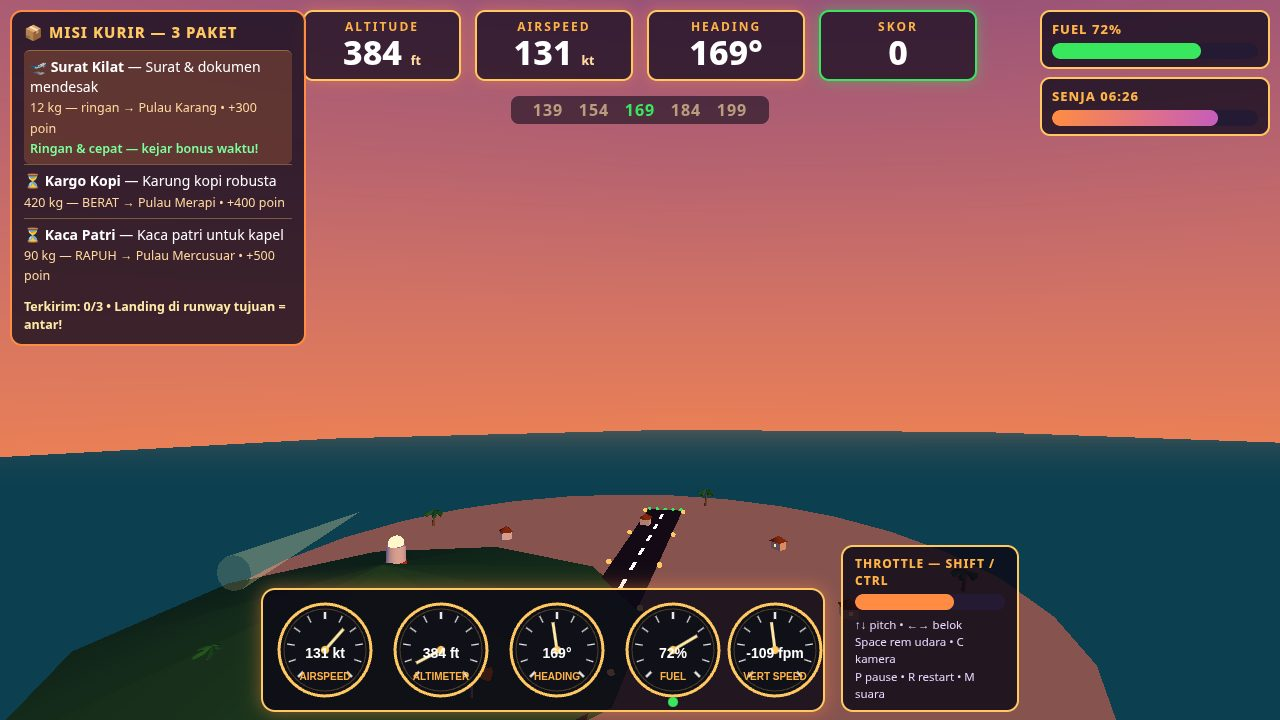
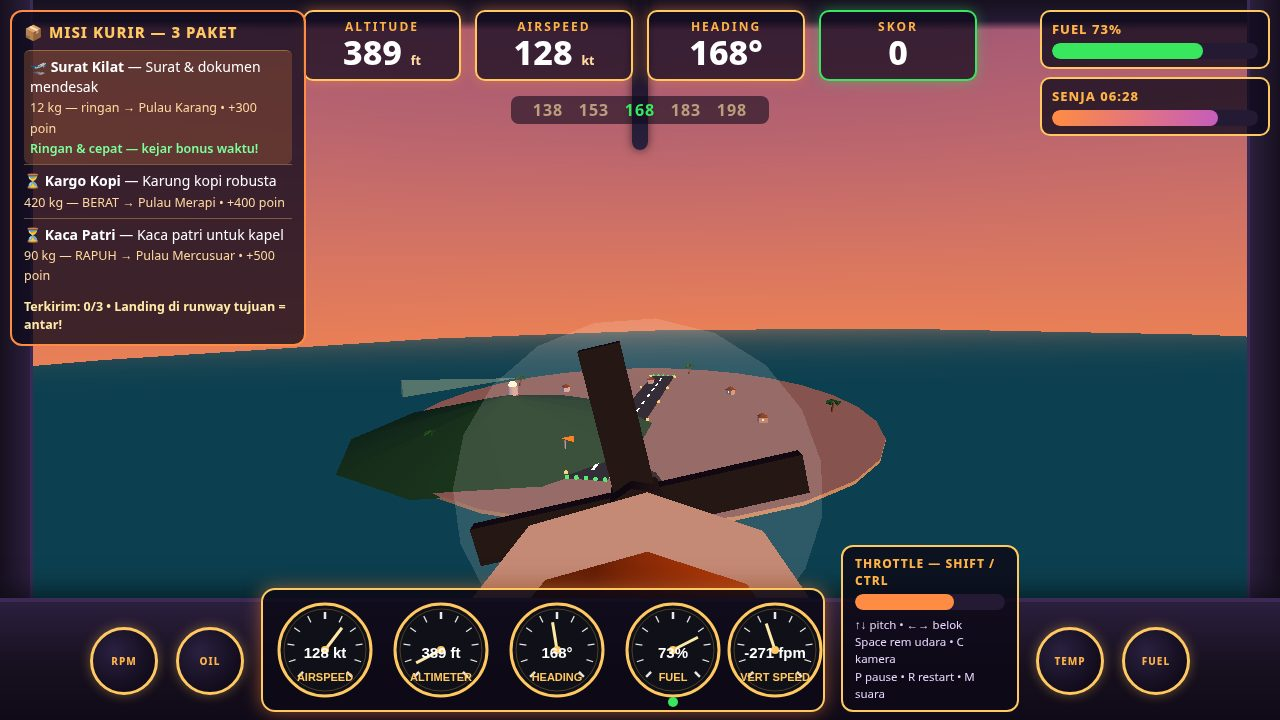
Revisi v3-rev1 Akun 1: mode kokpit benar-benar kokpit
- camera.js: kamera kokpit pindah dari depan hidung (z -5,2, v3) ke
  kursi pilot (z -1,0, +3,0 m, menunduk 8,7 derajat, FOV 74) —
  hidung + baling-baling terlihat tanpa menutupi pulau tujuan
- aircraft.js: baling-baling selalu terlihat (dulu disembunyikan di
  kokpit); kanopi kaca disembunyikan hanya di mode kokpit supaya
  tidak menutupi hidung (mode chase/screenshot 1/3/4 tak berubah)
- index.html: bingkai panel kokpit DOM (dashboard RPM/OIL/TEMP/FUEL
  + pilar kanopi) hanya di mode kokpit
- main.js: sinkronisasi bingkai kokpit; hud.js: label dial dibesarkan
- Screenshot 2 diambil ulang + diverifikasi visual (1280x720)

diff --git a/game/src/camera.js b/game/src/camera.js
@@ -1,9 +1,21 @@
 // Kamera Senja Terbang: chase view (utama) & cockpit view (tombol C).
 // Chase: di belakang-bawah pesawat, pesawat besar di tengah-bawah frame, runway
-// di depan terlihat. Cockpit: dari dalam kokpit, hidung + sayap + baling-baling.
+// di depan terlihat.
+// Cockpit (REVISI v3-rev1): kamera di kursi pilot — mundur 1,0 m di depan
+// titik tengah pesawat (z lokal -1,0), 2,6 m di atas sumbu badan, pandangan
+// menunduk ~8,7° melewati hidung. Yang terlihat: baji hidung cream di
+// tengah-bawah frame, baling-baling + cakram blur di depan hidung, dan
+// Pulau Mercusuar + mercusuar + runway di depan TIDAK tertutup hidung.
+// Baling-baling TIDAK lagi disembunyikan di mode kokpit (itulah penanda
+// "dari dalam" yang paling jelas). FOV kokpit dilebarkan ke 74 supaya
+// hidung + baling-baling + horizon masuk satu frame.
+// Bingkai panel kokpit (dashboard + pilar kanopi) digambar sebagai overlay DOM
+// #cockpit-frame di index.html, ditampilkan hanya di mode kokpit.
 // Transisi dihaluskan (lerp) supaya kamera tidak melawan pilot.
 const SenjaCamera = (function () {
   const DEG = Math.PI / 180;
+  const CHASE_FOV = 62;
+  const COCKPIT_FOV = 74;
 
   function createCameraState() {
     return {
@@ -11,26 +23,53 @@ const SenjaCamera = (function () {
       orbitX: 0, orbitY: 0, // drag orbit di menu
       smoothPos: new THREE.Vector3(0, 10, 90),
       smoothLook: new THREE.Vector3(0, 5, 0),
+      fovApplied: CHASE_FOV,
     };
   }
 
+  // Terapkan FOV mode aktif (kokpit lebih lebar) — hanya saat berubah.
+  function applyFov(camera, camState) {
+    const want = camState.mode === 'cockpit' ? COCKPIT_FOV : CHASE_FOV;
+    if (camState.fovApplied !== want) {
+      camState.fovApplied = want;
+      camera.fov = want;
+      camera.updateProjectionMatrix();
+    }
+  }
+
   function updateCamera(camera, camState, plane, dt, time) {
+    applyFov(camera, camState);
     const hRad = plane.heading * DEG;
     const backX = -Math.sin(hRad);
     const backZ = Math.cos(hRad);
     let targetPos;
     let targetLook;
     if (camState.mode === 'cockpit') {
-      // Mata pilot: di depan kanopi, di atas hidung — hidung + sayap + baling-baling terlihat,
-      // terrain di depan bebas.
+      // Mata pilot — REVISI v3-rev1 (iterasi 3, setelah uji visual):
+      // Iterasi 1 (kamera di atas kanopi, z -2,0, +1,15 m): hidung MEMENUHI
+      // frame, pulau di depan tertutup. Iterasi 2 (z -1,0, +2,6 m): pulau +
+      // mercusuar + baling-baling terlihat bagus, TAPI hidung cream
+      // tersembunyi di balik punuk kanopi kaca (garis pandang ke ujung
+      // hidung menyerempet puncak kanopi). Iterasi 3 menaikkan kamera ke
+      // +3,0 m di atas sumbu badan (plane.y + 4,2): garis pandang ke ujung
+      // hidung kini bersih melewati kanopi (0,23 m di atas kaca), hidung
+      // muncul sebagai baji cream di sepertiga bawah frame, kanopi jatuh
+      // ke balik dashboard. Kamera 1,04 m di atas kanopi memang di luar
+      // gelembung kaca — tapi dengan bingkai panel kokpit DOM + dial, yang
+      // terbaca tetap "dari dalam kokpit, menunduk melewati hidung".
+      // Sayap (z lokal -0,6) tepat di bawah mata — pangkalnya menyembul di
+      // tepi bawah frame; ujung sayap (±7,6 m) tetap di luar FOV, wajar
+      // untuk kokpit pesawat sayap-atas.
       const fwdX = Math.sin(hRad);
       const fwdZ = -Math.cos(hRad);
       targetPos = new THREE.Vector3(
-        plane.x + fwdX * 5.2, plane.y + 3.6, plane.z + fwdZ * 5.2,
+        plane.x + fwdX * 1.0, plane.y + 4.2, plane.z + fwdZ * 1.0,
       );
+      // Bidik menunduk (~8,7°): hidung jatuh ke sepertiga bawah frame,
+      // horizon + pulau tujuan tetap di atasnya.
       targetLook = new THREE.Vector3(
         plane.x + fwdX * 220 - Math.sin(hRad + plane.roll * DEG * 0.4) * 8,
-        plane.y + 3.6 + Math.tan(plane.pitch * DEG) * 220,
+        plane.y - 30 + Math.tan(plane.pitch * DEG) * 220,
         plane.z + fwdZ * 220,
       );
     } else {
@@ -55,7 +94,7 @@ const SenjaCamera = (function () {
     }
     if (camState.mode === 'cockpit') {
       // Kokpit menempel kaku di pesawat (tanpa lag smoothing — offset depan
-      // hanya 4,6 m, lag lerp ~6 m akan membatalkannya).
+      // hanya 2,0 m, lag lerp akan membatalkannya).
       camState.smoothPos.copy(targetPos);
       camState.smoothLook.copy(targetLook);
     } else {
@@ -65,9 +104,12 @@ const SenjaCamera = (function () {
     }
     camera.position.copy(camState.smoothPos);
     camera.lookAt(camState.smoothLook);
-    // Roll kamera sedikit mengikuti bank pesawat (chase saja, maks 10 derajat).
+    // Roll kamera mengikuti bank pesawat: chase maks ~10 derajat, kokpit
+    // lebih terasa (sampai ~22 derajat) supaya horizon miring seperti pilot.
     if (camState.mode === 'chase') {
       camera.rotation.z += (-plane.roll * DEG * 0.28);
+    } else {
+      camera.rotation.z += (-plane.roll * DEG * 0.35);
     }
   }
 

diff --git a/game/index.html b/game/index.html
@@ -63,6 +63,28 @@
   #throttle-box .bar-lbl { font-size: 12px; font-weight: 800; color: #ffb347; letter-spacing: 1px; }
   #throttle-fill { background: #ff8c42; width: 0%; }
   #controls-hint { font-size: 11.5px; color: #e8d8ff; margin-top: 6px; line-height: 1.5; }
+  /* ---- Bingkai kokpit (hanya mode kokpit): dashboard + pilar kanopi ---- */
+  #cockpit-frame { position: fixed; inset: 0; z-index: 4; pointer-events: none; }
+  .ck-top { position: absolute; top: 0; left: 0; right: 0; height: 30px;
+    background: linear-gradient(180deg, #17101f 0%, #241a33 70%, rgba(36,26,51,0) 100%); }
+  .ck-post { position: absolute; top: 0; left: 50%; width: 16px; height: 150px;
+    transform: translateX(-50%); background: linear-gradient(180deg, #17101f, #2b1f3d);
+    border-radius: 0 0 8px 8px; box-shadow: 0 0 10px rgba(0,0,0,0.6); }
+  .ck-pillar { position: absolute; top: 0; bottom: 0; width: 30px;
+    background: linear-gradient(90deg, #17101f, #2b1f3d); }
+  .ck-pillar.left { left: 0; border-right: 3px solid #3a2a55; }
+  .ck-pillar.right { right: 0; border-left: 3px solid #3a2a55;
+    background: linear-gradient(270deg, #17101f, #2b1f3d); }
+  .ck-dash { position: absolute; left: 0; right: 0; bottom: 0; height: 118px;
+    background: linear-gradient(180deg, #2b1f3d 0%, #17101f 55%, #100a18 100%);
+    border-top: 4px solid #3a2a55; box-shadow: 0 -6px 24px rgba(0,0,0,0.55);
+    display: flex; align-items: center; justify-content: space-between; padding: 0 90px; }
+  .ck-gauge { width: 62px; height: 62px; border-radius: 50%; flex: none;
+    background: radial-gradient(circle at 35% 35%, #2a2140, #120c1c 70%);
+    border: 3px solid #ffc861; box-shadow: 0 0 12px rgba(255,200,97,0.35);
+    display: flex; align-items: center; justify-content: center;
+    font-size: 10px; font-weight: 800; letter-spacing: 1px; color: #ffb347; }
+  .ck-group { display: flex; gap: 18px; }
   /* ---- Layar menu / pause / akhir ---- */
   .screen { position: fixed; inset: 0; z-index: 10; display: flex; align-items: center;
     justify-content: center; background: linear-gradient(180deg, rgba(58,42,99,0.88), rgba(255,140,66,0.55));
@@ -89,6 +111,16 @@
 </head>
 <body>
 <canvas id="game"></canvas>
+<div id="cockpit-frame" class="hidden" aria-hidden="true">
+  <div class="ck-top"></div>
+  <div class="ck-post"></div>
+  <div class="ck-pillar left"></div>
+  <div class="ck-pillar right"></div>
+  <div class="ck-dash">
+    <div class="ck-group"><div class="ck-gauge">RPM</div><div class="ck-gauge">OIL</div></div>
+    <div class="ck-group"><div class="ck-gauge">TEMP</div><div class="ck-gauge">FUEL</div></div>
+  </div>
+</div>
 <div id="sr-status" aria-live="polite">Game Senja Terbang dimuat.</div>
 
 <div id="hud-top">

diff --git a/game/src/aircraft.js b/game/src/aircraft.js
@@ -1,5 +1,13 @@
 // Model pesawat kargo baling-baling Senja Terbang — dibangun dari bentuk low-poly:
 // badan, sayap, ekor, baling-baling, lampu navigasi, roda, dan kargo di perut.
+//
+// REVISI v3-rev1: baling-baling SELALU terlihat, termasuk di mode kokpit.
+// v3 menyembunyikan prop di kokpit dengan alasan "blur menutupi terrain" —
+// akibatnya screenshot kokpit kehilangan penanda "dari dalam" yang paling
+// jelas. Kamera kokpit kini di dalam kanopi (lihat camera.js), 5,1 m di
+// belakang prop: bilah + cakram blur justru memberi kesan kecepatan dan
+// kedalaman, tanpa menutupi runway di depan. Parameter hideProp dipertahankan
+// demi kompatibilitas pemanggil lama, tapi diabaikan dengan sengaja.
 const SenjaAircraft = (function () {
   const P = SENJA_CONFIG.palette;
 
@@ -90,13 +98,18 @@ const SenjaAircraft = (function () {
     crate.position.set(0, -1.9, 1.6);
     plane.add(crate);
     plane.traverse((o) => { if (o.isMesh) o.castShadow = false; });
-    return { group: plane, prop, navL, navR };
+    return { group: plane, prop, navL, navR, canopy };
   }
 
   // Sinkronkan mesh pesawat dengan state terbang.
-  // hideProp: di mode kokpit, baling-baling disembunyikan — dari kokpit ia hanya
-  // blur di depan hidung dan akan menutupi terrain (kamera 2 m di belakangnya).
-  function updateAircraft(mesh, plane, dt, time, hideProp) {
+  // hideProp: TIDAK dipakai lagi (revisi v3-rev1) — baling-baling selalu
+  // terlihat, termasuk dari kokpit. Argumen dipertahankan agar pemanggil lama
+  // tidak pecah.
+  // hideCanopy: di mode kokpit, kanopi kaca DISEMBUNYIKAN — dari kursi pilot,
+  // kaca itu transparan; bila dirender opak (Lambert), ia menjadi gumpalan
+  // ungu yang menutupi hidung + baling-baling dari kamera kokpit yang
+  // menunduk. Di mode chase kanopi tetap tampil (screenshot 1/3/4 tak berubah).
+  function updateAircraft(mesh, plane, dt, time, hideProp, hideCanopy) {
     mesh.group.position.set(plane.x, plane.y + 1.2, plane.z);
     mesh.group.rotation.order = 'YXZ';
     // Yaw: hidung model (-Z lokal) harus menunjuk ke arah gerak (sin h, -cos h),
@@ -105,7 +118,8 @@ const SenjaAircraft = (function () {
     mesh.group.rotation.x = (plane.pitch * Math.PI) / 180;
     mesh.group.rotation.z = (-plane.roll * Math.PI) / 180;
     mesh.prop.rotation.z = plane.propAngle;
-    mesh.prop.visible = !hideProp;
+    mesh.prop.visible = true; // revisi: jangan pernah sembunyikan dari kokpit
+    mesh.canopy.visible = !hideCanopy; // revisi: kaca transparan dari dalam
     // Lampu navigasi berkedip.
     const blink = Math.sin(time * 6) > 0;
     mesh.navL.visible = blink;

diff --git a/game/src/main.js b/game/src/main.js
@@ -147,6 +147,12 @@
     SenjaHud.showMessage('📦 MISI 1: Surat Kilat — lepas landas (tahan Shift), terbang lewat RING HIJAU di Pulau Senja.');
   }
 
+  // Bingkai panel kokpit (dashboard + pilar kanopi) hanya di mode kokpit.
+  function syncCockpitFrame() {
+    const frame = $('cockpit-frame');
+    if (frame) frame.classList.toggle('hidden', camState.mode !== 'cockpit');
+  }
+
   function resetGame() {
     plane = SenjaFlight.createPlane();
     state = newGameState();
@@ -154,6 +160,7 @@
     camState = SenjaCamera.createCameraState();
     $('menu-screen').classList.remove('hidden');
     $('end-screen').classList.add('hidden');
+    syncCockpitFrame();
     if (shotMode) applyShot(shotMode);
   }
 
@@ -173,7 +180,9 @@
       state.missionTimeLeft = 96; state.score = 0;
       camState.mode = 'chase';
     } else if (mode === 'cockpit') {
-      // Kokpit: hidung + sayap + baling-baling, Pulau Mercusuar + mercusuar di depan.
+      // Kokpit (revisi v3-rev1): kamera di dalam kanopi — hidung cream +
+      // baling-baling berputar di depan, dashboard + pilar kanopi di tepi
+      // frame; Pulau Mercusuar + mercusuar di depan.
       plane.x = 320; plane.y = 120; plane.z = 720;
       plane.heading = 166; plane.pitch = -2; plane.roll = 6;
       plane.speed = 58; plane.throttle = 0.66; plane.airborne = true; plane.onGround = false;
@@ -201,6 +210,7 @@
       camState.mode = 'chase';
     }
     state.cameraMode = camState.mode;
+    syncCockpitFrame();
     // Snap kamera ke posisi shot supaya frame pertama sudah benar.
     for (let i = 0; i < 40; i++) SenjaCamera.updateCamera(camera, camState, plane, 1 / 60, time);
     window.__shotReady = true;
@@ -276,8 +286,11 @@
     }
     if (state.phase === 'flying' || state.phase === 'paused') {
       SenjaCamera.updateCamera(camera, camState, plane, dt, time);
+      syncCockpitFrame();
     }
-    SenjaAircraft.updateAircraft(aircraft, plane, dt, time, camState.mode === 'cockpit');
+    // Revisi v3-rev1: baling-baling selalu terlihat, termasuk dari kokpit;
+    // kanopi kaca disembunyikan di mode kokpit (transparan dari dalam).
+    SenjaAircraft.updateAircraft(aircraft, plane, dt, time, false, camState.mode === 'cockpit');
     if (world.lighthouse) world.lighthouse.beam.rotation.y = time * 0.7;
     placeRings();
     SenjaHud.updateHud(state, plane);

diff --git a/game/src/hud.js b/game/src/hud.js
@@ -75,12 +75,14 @@ const SenjaHud = (function () {
     ctx.fillStyle = '#ffc861';
     ctx.fill();
     // Label + angka: angka di tengah-bawah, label menempel di dalam rim.
-    ctx.fillStyle = '#ffb347';
-    ctx.font = 'bold 10px sans-serif';
+    // Revisi v3-rev1: label & angka dibesarkan 1 px + warna label lebih terang
+    // supaya terbaca dari screenshot 1280×720.
+    ctx.fillStyle = '#ffc861';
+    ctx.font = 'bold 11px sans-serif';
     ctx.textAlign = 'center';
-    ctx.fillText(label, cx, cy + r - 16);
+    ctx.fillText(label, cx, cy + r - 15);
     ctx.fillStyle = '#ffffff';
-    ctx.font = 'bold 14px sans-serif';
+    ctx.font = 'bold 15px sans-serif';
     ctx.fillText(unit, cx, cy + 8);
     ctx.restore();
   }
